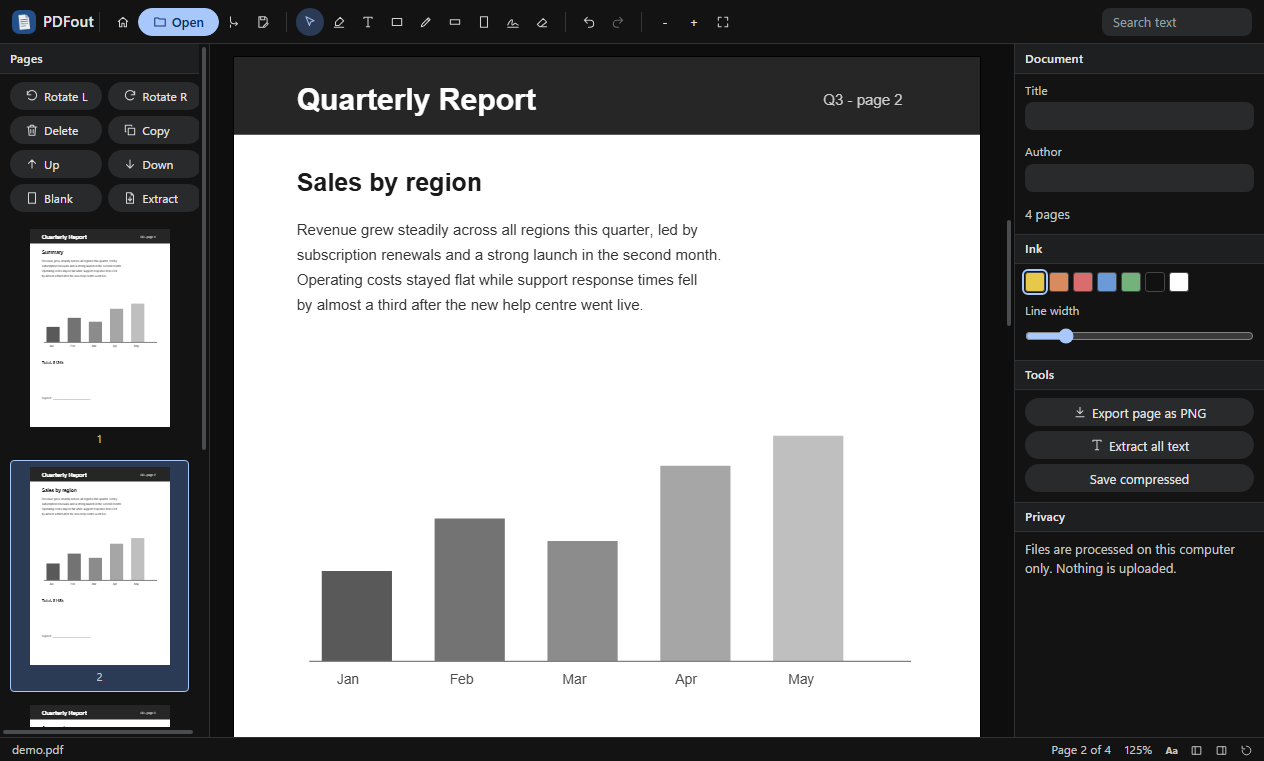
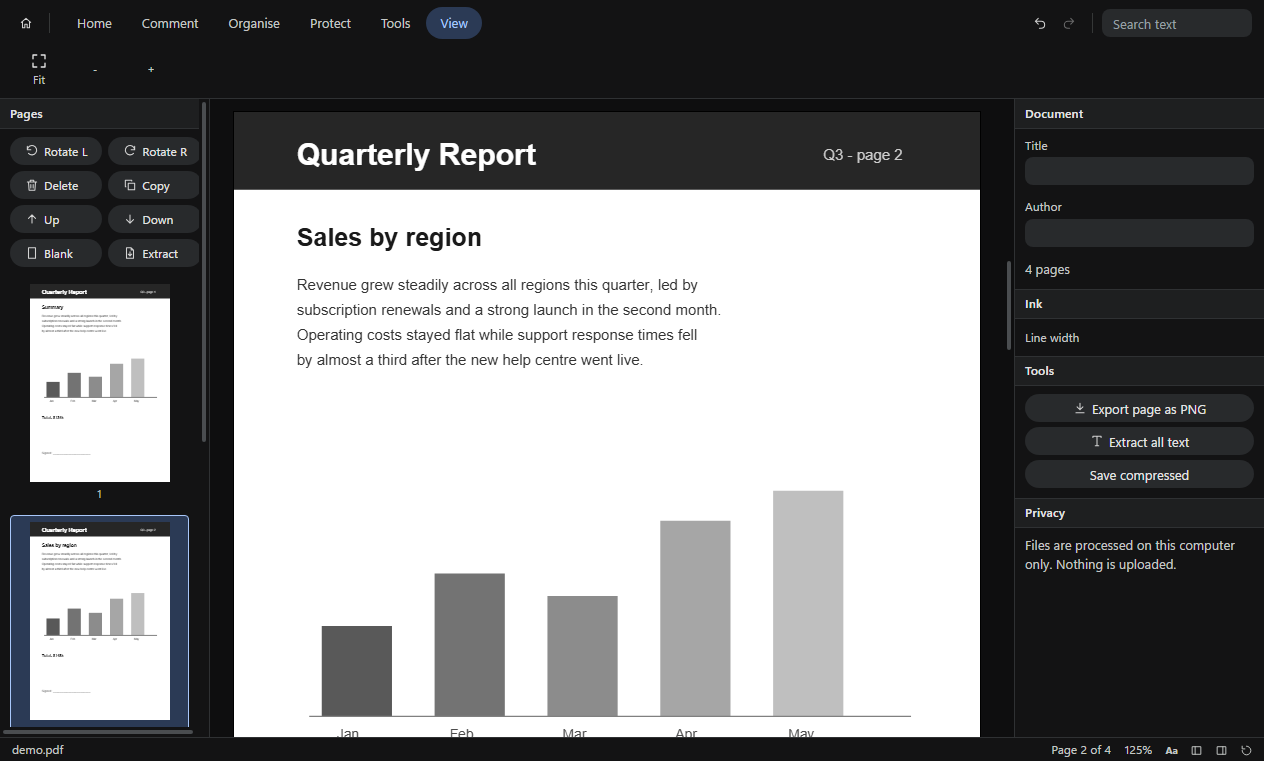
fix: PDFout 1.0.16
PDFout now has ribbon tabs (Home, Comment, Organise, Protect, Tools, View) and a start screen.

diff --git a/renderer/app.js b/renderer/app.js
@@ -48,15 +48,13 @@ const left = h('div', { class: 'sidebar' });
 const stage = h('div', { class: 'stage' });
 const right = h('div', { class: 'sidebar right' });
 const status = h('div', { class: 'status' });
-app.append(toolbar, h('div', { class: 'main' }, left, h('div', { style: 'flex:1;min-width:0;display:flex' }, stage), right), status);
+const ribbon = h('div', { class: 'ribbon' });
+const head = h('div', { class: 'head' }, toolbar, ribbon);
+app.append(head, h('div', { class: 'main' }, left, h('div', { style: 'flex:1;min-width:0;display:flex' }, stage), right), status);
 stage.style.flex = '1';
 stage.style.overflow = 'auto';
 
 const btn = (label, fn, cls = '') => h('button', { class: 'btn ' + cls, onclick: fn, text: label });
-const toolBtns = {};
-const bOpen = btn('Open', () => openFiles(false), 'primary');
-const bMerge = btn('Merge', () => openFiles(true));
-const bSave = btn('Save as', () => save());
 const bHome = btn('Home', () => {
   if (pages.length && snapshot() !== savedSnap && !confirm('Close this document without saving?')) return;
   pages = []; sources.clear(); undoStack = []; redoStack = []; fileName = ''; lastSave = null; sel.clear(); selAnn = null; savedSnap = null; fullRender();
@@ -66,14 +64,39 @@ const bRedo = btn('Redo', () => redo());
 const search = h('input', { 'aria-label': 'Search text', type: 'search', placeholder: 'Search text', style: 'width:150px', onkeydown: (e) => { if (e.key === 'Enter') doSearch(search.value); } });
 const swatchBox = h('div', { class: 'swatches' }, SWATCH.map((c) => { const b = h('button', { style: `background:${c}`, title: c, onclick: () => { color = c; refreshSwatches(); if (selAnn) mutateSel((a) => { a.color = c; }); } }); b.dataset.c = c; return b; }));
 const sizeIn = h('input', { type: 'range', min: 1, max: 14, value: strokeW, title: 'Line width', style: 'width:100%', oninput: () => { strokeW = +sizeIn.value; if (selAnn) mutateSel((a) => { if (a.type === 'rect' || a.type === 'draw') a.w = strokeW; }); } });
-toolbar.append(bHome, bOpen, bMerge, bSave, h('span', { class: 'sep' }), ...TOOLS.map(([k, n]) => (toolBtns[k] = btn(n, () => setTool(k)))), h('span', { class: 'sep' }), bUndo, bRedo, h('span', { class: 'sep' }),
-  btn('-', () => setZoom(zoom / 1.15), 'icon'), btn('+', () => setZoom(zoom * 1.15), 'icon'), btn('Fit', () => fitWidth()), h('span', { class: 'grow' }), search);
+const TABS = [['home', 'Home'], ['comment', 'Comment'], ['organise', 'Organise'], ['protect', 'Protect'], ['tools', 'Tools'], ['view', 'View']];
+let ribbonTab = 'home', ribbonOpen = true;
+const tabEls = {};
+const tabBar = h('div', { class: 'tabs', role: 'tablist' }, TABS.map(([k, n]) => (tabEls[k] = h('button', { class: 'tab', role: 'tab', text: n,
+  onclick: () => { if (ribbonTab === k) ribbonOpen = !ribbonOpen; else { ribbonTab = k; ribbonOpen = true; } drawRibbon(); } }))));
+toolbar.append(bHome, h('span', { class: 'sep' }), tabBar, h('span', { class: 'grow' }), bUndo, bRedo, h('span', { class: 'sep' }), search);
+const rb = (label, fn, o = {}) => { const b = h('button', { class: 'btn rb' + (o.on ? ' on' : ''), onclick: fn, text: label, title: o.tip || label }); if (o.dis) b.disabled = true; return b; };
+const rg = (...kids) => h('div', { class: 'rgroup' }, ...kids);
+function drawRibbon() {
+  const none = !pages.length;
+  for (const [k, b] of Object.entries(tabEls)) { b.classList.toggle('on', k === ribbonTab && ribbonOpen); b.setAttribute('aria-selected', String(k === ribbonTab)); }
+  ribbon.classList.toggle('closed', !ribbonOpen);
+  ribbon.textContent = '';
+  if (!ribbonOpen) return;
+  const T = (k, n) => rb(n, () => setTool(k), { on: tool === k, dis: none });
+  const sw = h('div', { class: 'rgroup rsw' }, swatchBox, h('div', { class: 'rw' }, h('span', { text: 'Line' }), sizeIn));
+  const groups = {
+    home: [rg(rb('Open', () => openFiles(false)), rb('Merge', () => openFiles(true), { dis: none, tip: 'Combine another PDF into this one' }), rb('Save as', () => save(), { dis: none })),
+      rg(T('select', 'Select'), T('highlight', 'Highlight'), T('text', 'Text')), rg(rb('Fit', () => fitWidth(), { dis: none, tip: 'Fit to width' }), rb('-', () => setZoom(zoom / 1.15), { dis: none, tip: 'Zoom out' }), rb('+', () => setZoom(zoom * 1.15), { dis: none, tip: 'Zoom in' }))],
+    comment: [rg(T('select', 'Select'), T('highlight', 'Highlight'), T('text', 'Text'), T('rect', 'Box'), T('draw', 'Pen'), T('erase', 'Erase'), rb('Sign', () => setTool('sign'), { dis: none })), sw],
+    organise: [rg(...[['Rotate L', 'rotL'], ['Rotate R', 'rotR'], ['Delete', 'del'], ['Copy', 'dup'], ['Up', 'up'], ['Down', 'down'], ['Blank', 'blank']].map(([n, op]) => rb(n, () => pageOp(op), { dis: none, tip: n + ' (selected pages)' })), rb('Extract', () => extractSel(), { dis: none }))],
+    protect: [rg(T('redact', 'Redact'), T('cover', 'Cover'), rb('Sign', () => setTool('sign'), { dis: none }))],
+    tools: [rg(rb('Export page as PNG', () => exportPng(), { dis: none }), rb('Extract all text', () => extractText(), { dis: none }), rb('Compress', () => saveCompressed(), { dis: none, tip: 'Save compressed copy' }), rb('Merge', () => openFiles(true), { dis: none, tip: 'Combine another PDF into this one' }))],
+    view: [rg(rb('Fit', () => fitWidth(), { dis: none, tip: 'Fit to width' }), rb('-', () => setZoom(zoom / 1.15), { dis: none, tip: 'Zoom out' }), rb('+', () => setZoom(zoom * 1.15), { dis: none, tip: 'Zoom in' }))],
+  };
+  ribbon.append(...groups[ribbonTab].flatMap((g, i) => (i ? [h('span', { class: 'rsep' }), g] : [g])));
+}
 function refreshSwatches() { swatchBox.querySelectorAll('button').forEach((b) => b.classList.toggle('on', b.dataset.c === color)); }
 refreshSwatches();
 function setTool(t) {
   if (t === 'sign') { openSignature(); return; }
   tool = t;
-  for (const [k, b] of Object.entries(toolBtns)) b.classList.toggle('on', k === t);
+  drawRibbon();
   stage.className = 'stage tool-' + t;
   if (t !== 'select') { selAnn = null; redrawOverlays(); }
 }
@@ -178,7 +201,7 @@ function commit() { undoStack.push(snapshot()); if (undoStack.length > 80) undoS
 function restore(s) { pages = JSON.parse(s); sel = new Set([...sel].filter((id) => pages.some((p) => p.id === id))); selAnn = null; fullRender(); }
 function undo() { if (!undoStack.length) return; redoStack.push(snapshot()); restore(undoStack.pop()); }
 function redo() { if (!redoStack.length) return; undoStack.push(snapshot()); restore(redoStack.pop()); }
-function updateButtons() { bUndo.disabled = !undoStack.length; bRedo.disabled = !redoStack.length; bSave.disabled = !pages.length; bMerge.disabled = !pages.length; }
+function updateButtons() { bUndo.disabled = !undoStack.length; bRedo.disabled = !redoStack.length; drawRibbon(); }
 
 // ---------- geometry ----------
 const dispDims = (p) => { const sw = p.r0 % 180 !== 0; return sw ? [p.h, p.w] : [p.w, p.h]; };      // base display (user rot 0), in points

diff --git a/renderer/app.css b/renderer/app.css
@@ -56,3 +56,23 @@ table.recent td{height:48px}
 .home-empty{display:flex;flex-direction:column;gap:4px;padding:30px;border:1px dashed var(--line-2);border-radius:16px;text-align:center;color:var(--text-2)}
 .home-empty b{color:var(--text);font-weight:500}
 table.recent th:first-child,table.recent td:first-child{width:44px;padding:0 6px}
+
+/* ribbon */
+.head{display:flex;flex-direction:column;background:var(--bg)}
+.head .toolbar{border-bottom:0;min-height:40px;padding-bottom:0}
+.tabs{display:flex;gap:2px;margin-left:4px}
+.tab{height:32px;padding:0 14px;border:0;background:transparent;color:var(--text-2);border-radius:999px;cursor:pointer;font-size:13px}
+.tab:hover{background:var(--bg-3)}
+.tab.on{background:var(--accent-soft);color:var(--accent)}
+.ribbon{display:flex;align-items:center;gap:4px;padding:4px 12px 6px;min-height:58px;border-bottom:1px solid var(--line);overflow-x:auto;scrollbar-width:none}
+.ribbon::-webkit-scrollbar{height:0}
+.ribbon.closed{display:none}
+.rgroup{display:flex;align-items:center;gap:2px}
+.rsep{width:1px;height:34px;background:var(--line-2);margin:0 8px;flex-shrink:0}
+.ribbon .btn.rb{flex-direction:column;gap:4px;height:48px;min-width:54px;padding:5px 8px;border-radius:12px;background:transparent;font-size:11px;color:var(--text-2);flex-shrink:0}
+.ribbon .btn.rb .ic{width:18px;height:18px;opacity:1;color:var(--text)}
+.ribbon .btn.rb:hover{background:var(--bg-3)}
+.ribbon .btn.rb.on{background:var(--accent-soft);color:var(--accent)}
+.ribbon .btn.rb.on .ic{color:var(--accent)}
+.ribbon .rsw{gap:14px;margin-left:6px}
+.rw{display:flex;flex-direction:column;gap:2px;font-size:11px;color:var(--text-2);width:110px}

diff --git a/README.md b/README.md
@@ -2,7 +2,7 @@
 
 <h1 align="center">PDFout</h1>
 
-<p align="center"><b>Read, annotate and sign PDFs</b><br>Version 1.0.15 for Windows · Free · Offline · No account</p>
+<p align="center"><b>Read, annotate and sign PDFs</b><br>Version 1.0.16 for Windows · Free · Offline · No account</p>
 
 <p align="center"><a href="https://github.com/plawanpawin-byte/pdfout/releases/latest"><b>Download PDFout</b></a> · <a href="https://github.com/plawanpawin-byte/lookout-launcher">Lookout launcher</a> · <a href="https://github.com/plawanpawin-byte/Lookout">All Lookout apps</a></p>
 
@@ -36,9 +36,9 @@ It can also tidy a document. You can rotate a sideways page, delete a page you d
 2. Pick the highlighter in the top bar, drag over a sentence, then press **Save** to keep a copy with the highlight in it.
 3. Choose **Export page as PNG** in the right panel to turn the current page into a picture.
 
-## What is new in 1.0.15
+## What is new in 1.0.16
 
-**Renamed from Pageout to PDFout.** The app now opens on a **home screen** with Quick tools (annotate, sign, redact, organise, combine, compress, export text, blank PDF), a Recent files list and a Starred files tab, and a Home button returns to it. The program now shows as PDFout (not Electron) in Task Manager and the taskbar. It also has a new look inspired by Google's own tools (AI Studio, Colab, Gemini): a calm dark charcoal theme, rounded pill buttons, a soft blue accent and roomier spacing. The app icon is now a colour logo so you can find PDFout at a glance in the Start menu and in the Lookout launcher. All screenshots below were taken again with the new look.
+**Ribbon tabs** (Home, Comment, Organise, Protect, Tools, View) now group the tools like PDFelement does. **Renamed from Pageout to PDFout.** The app now opens on a **home screen** with Quick tools (annotate, sign, redact, organise, combine, compress, export text, blank PDF), a Recent files list and a Starred files tab, and a Home button returns to it. The program now shows as PDFout (not Electron) in Task Manager and the taskbar. It also has a new look inspired by Google's own tools (AI Studio, Colab, Gemini): a calm dark charcoal theme, rounded pill buttons, a soft blue accent and roomier spacing. The app icon is now a colour logo so you can find PDFout at a glance in the Start menu and in the Lookout launcher. All screenshots below were taken again with the new look.
 
 ## In plain words
 
@@ -100,7 +100,7 @@ The current page exported as a sharp PNG image, ready to drop into a slide, a me
 
 ## The interface
 
-- **Top bar:** open, merge and save files, the markup tools (Select, Highlight, Text, Box, Pen, Redact, Sign, Erase), undo and redo, zoom, and text search.
+- **Tabs and ribbon (top):** six tabs, like PDFelement but in our own look. **Home** (open, merge, save, select, highlight, text, zoom), **Comment** (highlight, text, box, pen, eraser, signature and ink colours), **Organise** (rotate, delete, copy, move, blank page, extract), **Protect** (redact, cover, sign), **Tools** (export page as PNG, extract text, compress, merge) and **View** (fit and zoom). Click the active tab again to fold the ribbon away. The Home button on the left returns to the start screen.
 - **Left panel:** page buttons (rotate, delete, copy, move, blank, extract) above live thumbnails of every page.
 - **Right panel:** document title and author, ink colour and line width, export tools, and search results.
 
